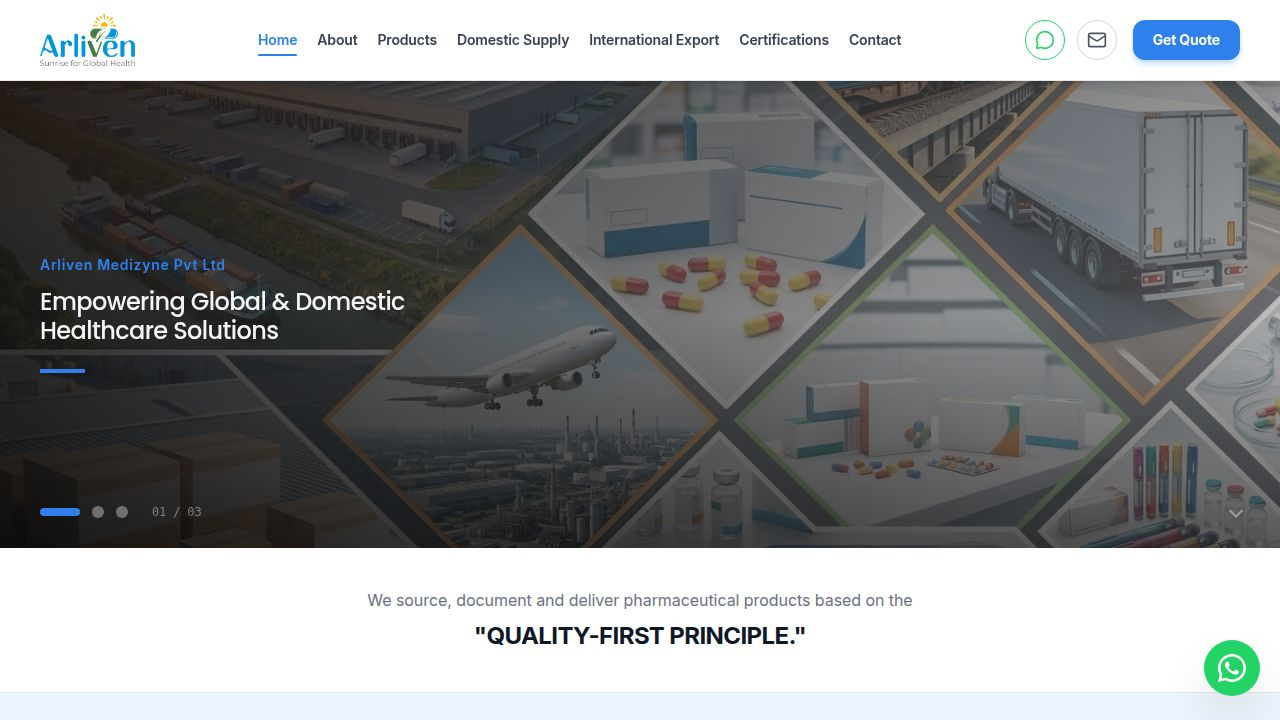
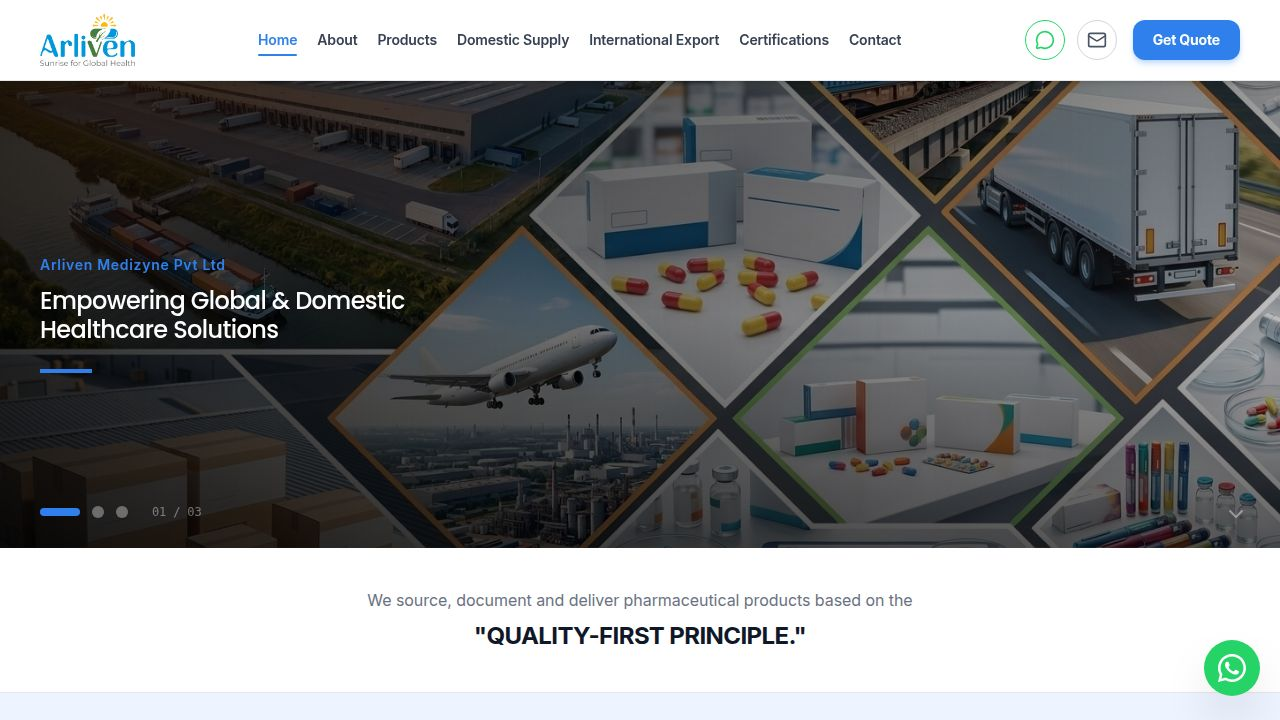
Enhance website performance and update visual elements for a smoother user experience
Preload hero images, add GPU acceleration hints to hero transitions, and update the footer text.

Replit-Commit-Author: Agent
Replit-Commit-Session-Id: 7b5f0ab2-9068-4b1e-a568-a848fbdbbe8f
Replit-Commit-Checkpoint-Type: full_checkpoint
Replit-Commit-Event-Id: 4eb61d64-e234-40ef-a79a-d1482ee00684
Replit-Commit-Screenshot-Url: https://storage.googleapis.com/screenshot-production-us-central1/0023b57a-7a92-4bcf-8c28-df07c4b7561d/7b5f0ab2-9068-4b1e-a568-a848fbdbbe8f/fTG6yf6
Replit-Helium-Checkpoint-Created: true

diff --git a/artifacts/arliven-medizyne/src/components/ui/HeroSlider.tsx b/artifacts/arliven-medizyne/src/components/ui/HeroSlider.tsx
@@ -55,15 +55,19 @@ export function HeroSlider() {
         <AnimatePresence mode="sync">
           <motion.div
             key={current}
-            initial={{ opacity: 0, scale: 1.04 }}
-            animate={{ opacity: 1, scale: 1 }}
+            initial={{ opacity: 0 }}
+            animate={{ opacity: 1 }}
             exit={{ opacity: 0 }}
-            transition={{ duration: 1.2, ease: "easeInOut" }}
+            transition={{ duration: 0.9, ease: "easeInOut" }}
             className="absolute inset-0"
+            style={{ willChange: "opacity" }}
           >
             <div
               className={`absolute inset-0 hero-slide-bg bg-[#111]${slide.zoomMobile ? " hero-slide-zoom-mobile" : ""}`}
-              style={{ backgroundImage: `url(${import.meta.env.BASE_URL}images/${slide.image})` }}
+              style={{
+                backgroundImage: `url(${import.meta.env.BASE_URL}images/${slide.image})`,
+                transform: "translateZ(0)",
+              }}
             />
           </motion.div>
         </AnimatePresence>
@@ -104,12 +108,12 @@ export function HeroSlider() {
                     {slide.title}
                   </motion.h1>
 
-                  {/* Blue accent line */}
+                  {/* Blue accent line — hidden on mobile, visible md+ */}
                   <motion.div
                     initial={{ width: 0 }}
                     animate={{ width: "64px" }}
                     transition={{ duration: 0.55, delay: 0.4 }}
-                    className="h-1 bg-[#2F80ED] mt-6"
+                    className="hidden md:block h-1 bg-[#2F80ED] mt-6"
                   />
                 </motion.div>
               </AnimatePresence>

diff --git a/artifacts/arliven-medizyne/index.html b/artifacts/arliven-medizyne/index.html
@@ -18,6 +18,11 @@
     <!-- Favicon -->
     <link rel="icon" type="image/png" href="/images/arliven-logo.png" />
 
+    <!-- Preload critical hero images for instant first paint (no flicker) -->
+    <link rel="preload" as="image" href="/images/hero-slide1-new.png" />
+    <link rel="preload" as="image" href="/images/hero-slide2-new.jpg" />
+    <link rel="preload" as="image" href="/images/hero-slide3-new.png" />
+
     <!-- Fonts preconnect for faster load -->
     <link rel="preconnect" href="https://fonts.googleapis.com" />
     <link rel="preconnect" href="https://fonts.gstatic.com" crossorigin />

diff --git a/artifacts/arliven-medizyne/src/components/layout/Footer.tsx b/artifacts/arliven-medizyne/src/components/layout/Footer.tsx
@@ -127,7 +127,7 @@ export function Footer() {
         </div>
 
         <div className="border-t border-white/10 pt-6 flex flex-col md:flex-row justify-between items-center gap-4 text-sm font-medium text-gray-500">
-          <p>© {new Date().getFullYear()} Arliven Medizyne Pvt Ltd. All rights reserved.</p>
+          <p>© {new Date().getFullYear()} Arliven Medizyne Pvt Ltd. All rights reserved. &nbsp;·&nbsp; Designed by Webcraft Studio</p>
           <div className="flex gap-6">
             <Link href="/contact" className="hover:text-white transition-colors">Privacy Policy</Link>
             <Link href="/contact" className="hover:text-white transition-colors">Terms of Service</Link>